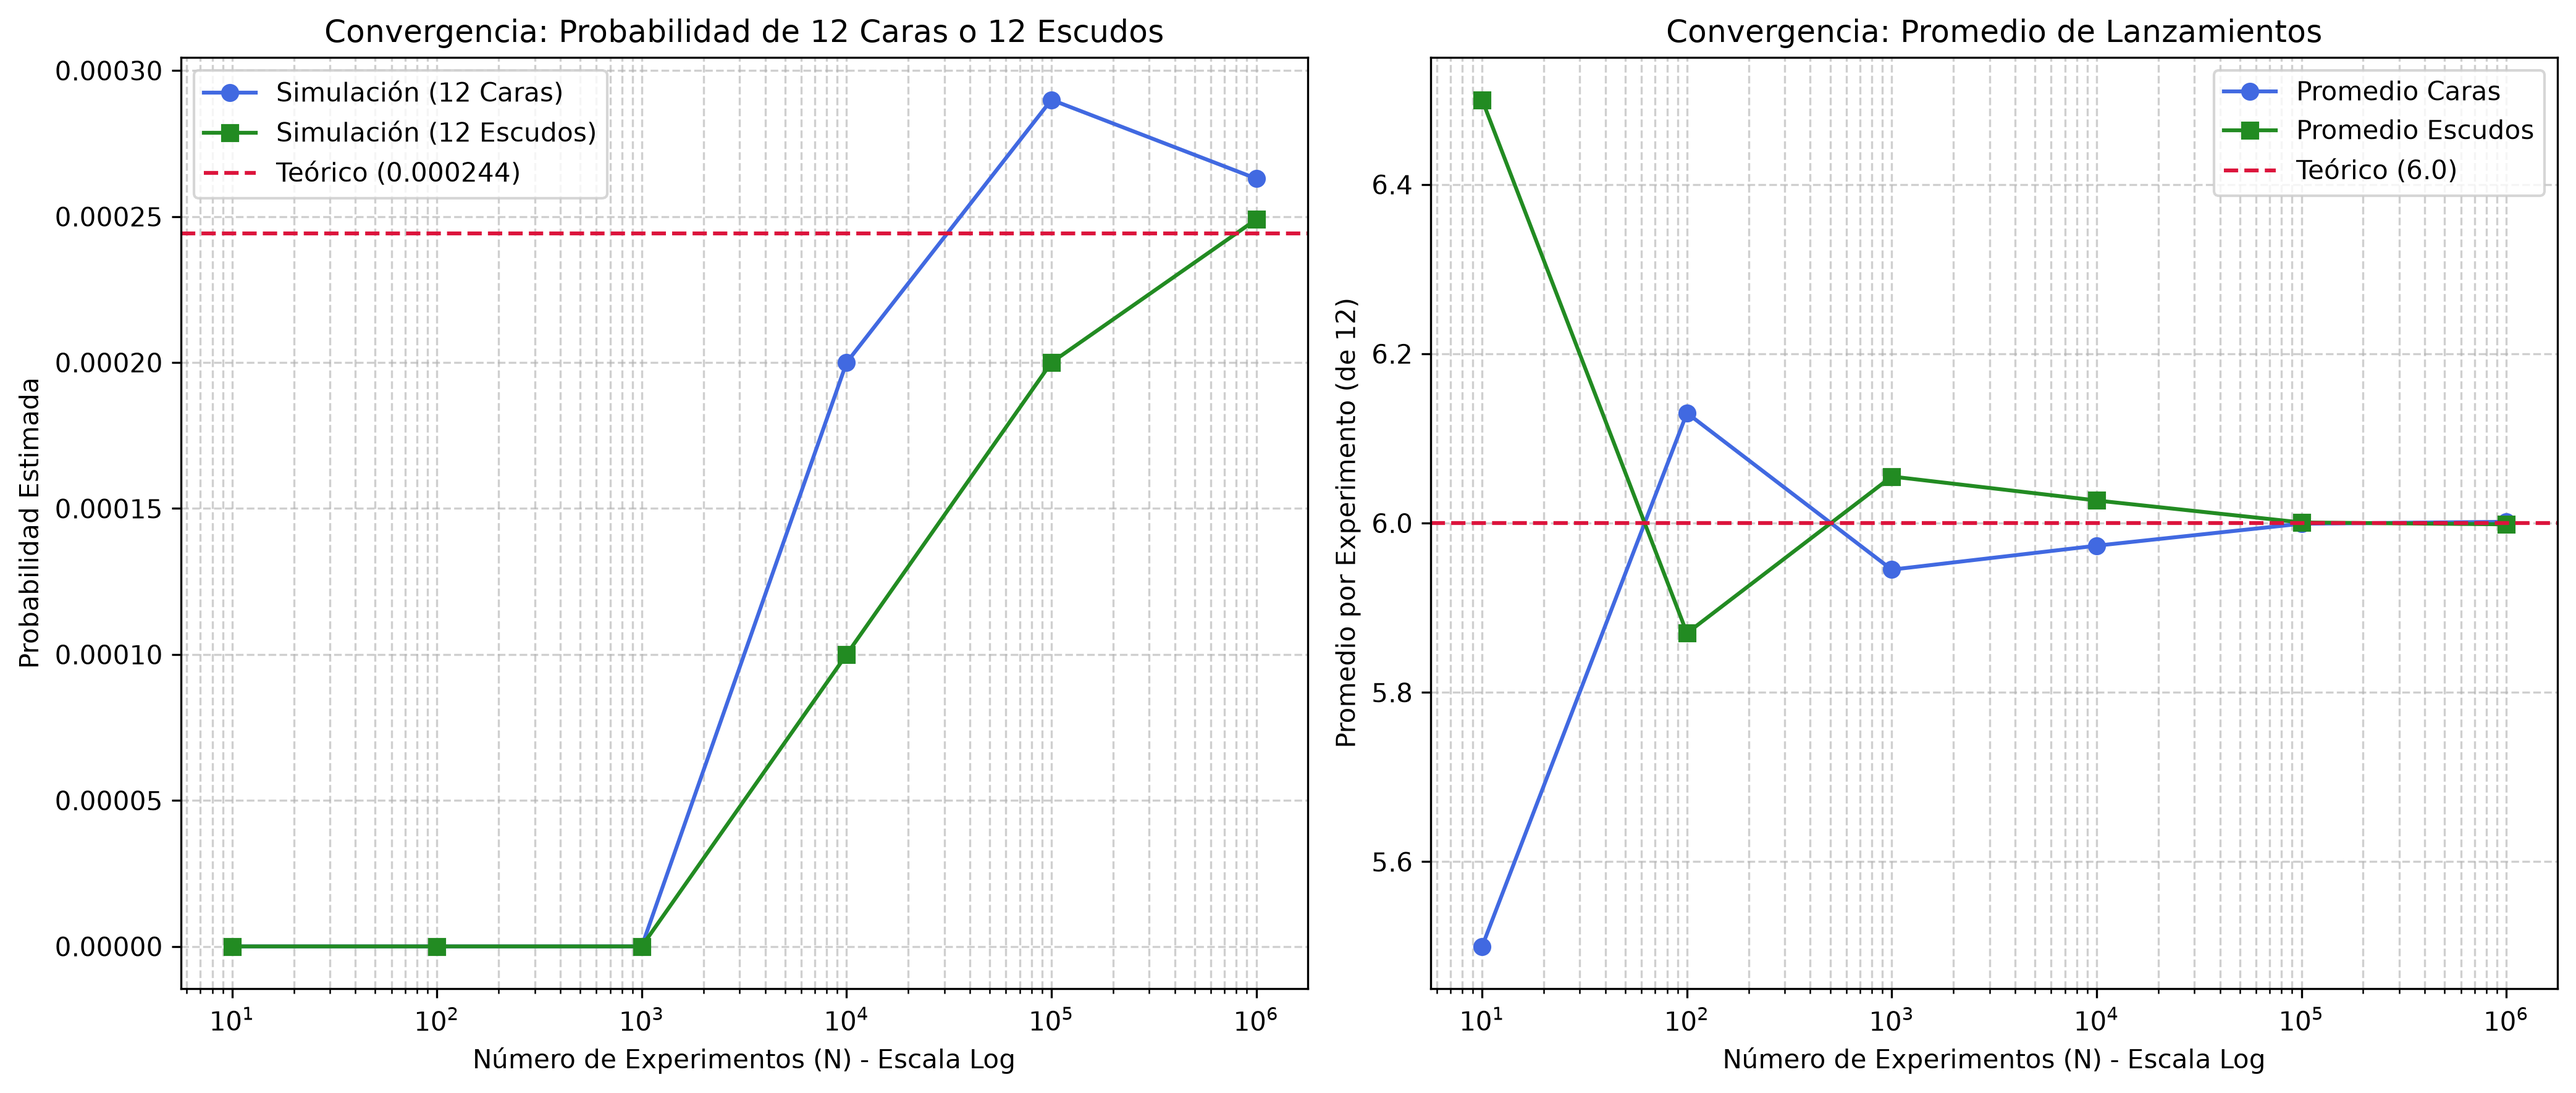
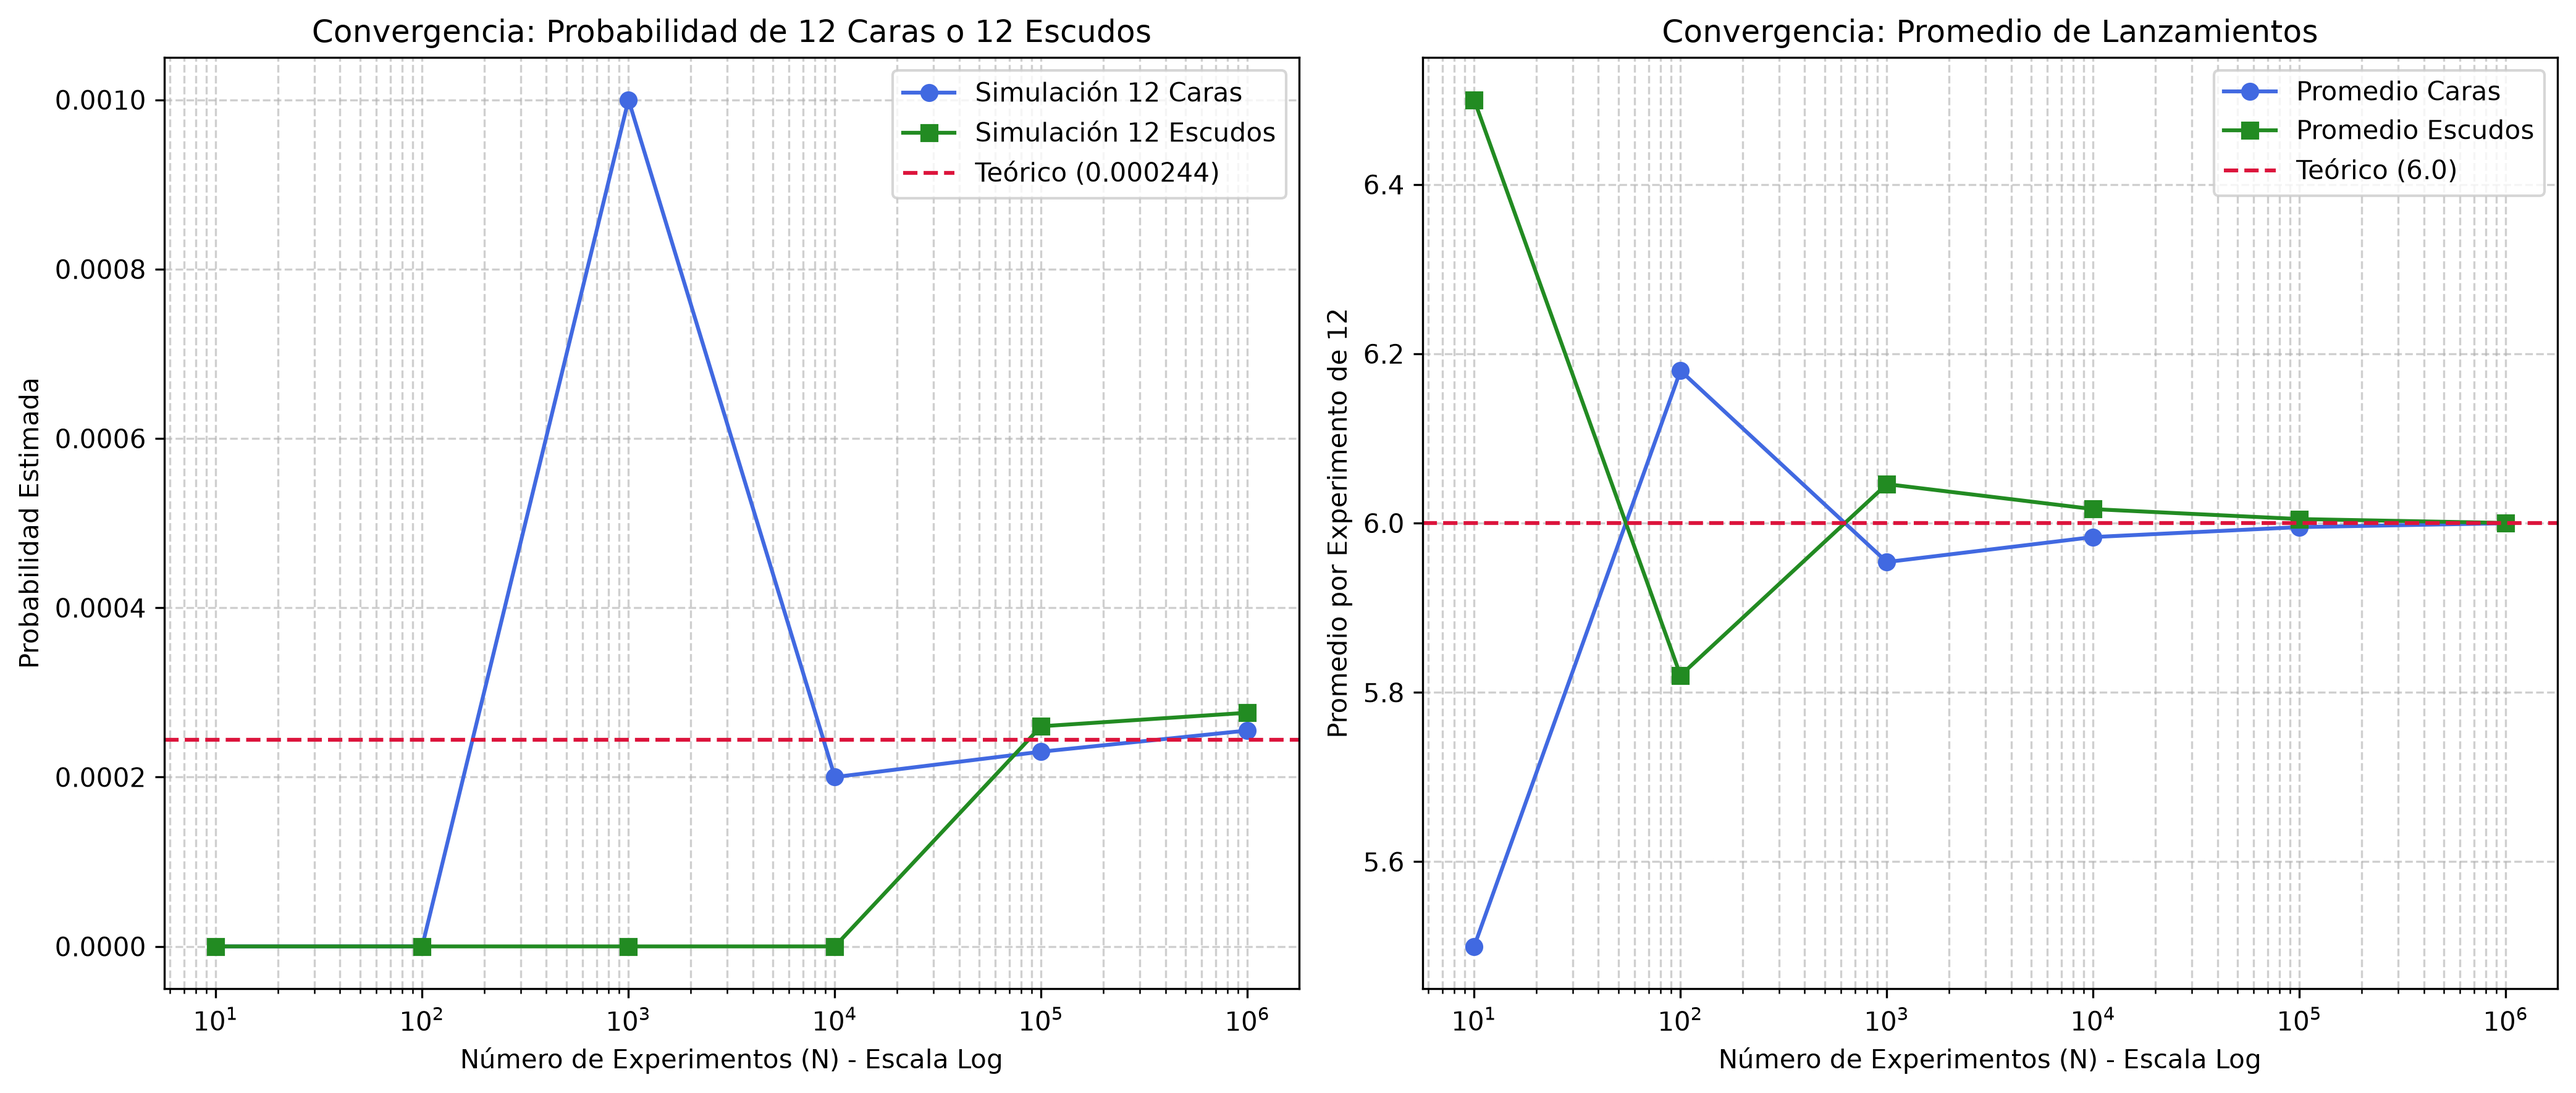
refactor: update text formatting and labels in simulation outputs and plots

Changed region(s): [[0.0312, 0.0, 0.9976, 0.9944], [0.8106, 0.9011, 0.8417, 0.9322]]

diff --git a/moneda_probab/simulacion_moneda.py b/moneda_probab/simulacion_moneda.py
@@ -13,7 +13,7 @@ def run_simulation(max_N=1_000_000, num_tosses=12):
     if max_N not in N_values:
         N_values.append(max_N)
         
-    print(f"Iniciando simulación de Monte Carlo (hasta N={max_N:,})...\n")
+    print(f"Iniciando simulación de Monte Carlo hasta N={max_N:,})...\n")
     
     # Probabilidad teórica de obtener 12 caras o 12 escudos
     p_12_same = (0.5)**num_tosses
@@ -35,7 +35,7 @@ def run_simulation(max_N=1_000_000, num_tosses=12):
     caras_counts = np.sum(tosses, axis=1)
     escudos_counts = num_tosses - caras_counts
     
-    print("\n| N          | P(12 Caras) | Error Abs  | P(12 Escud) | Error Abs  | Prom Caras | Prom Escud |")
+    print("\n| N          | P-12 Caras | Error Abs  | P-12 Escudos | Error Abs  | Prom Caras | Prom Escudos |")
     print("-" * 97)
     
     for n in N_values:
@@ -66,7 +66,7 @@ def run_simulation(max_N=1_000_000, num_tosses=12):
         print(f"| {n:<10,} | {prob_12_caras:.6f}    | {err_c:.6f}   | {prob_12_escudos:.6f}    | {err_e:.6f}   | {avg_caras_val:.4f}     | {avg_escudos_val:.4f}     |")
 
     print("-" * 97)
-    print(f"Valor Teórico (12 Iguales) = {p_12_same:.6f}")
+    print(f"Valor Teórico para 12 intentos seguidos iguales = {p_12_same:.6f}")
     print(f"Valor Teórico Promedio     = {avg_expected:.4f}")
     
     plot_results(results, p_12_same, avg_expected)
@@ -77,8 +77,8 @@ def plot_results(results, p_12_same, avg_expected):
     fig, (ax1, ax2) = plt.subplots(1, 2, figsize=(14, 6))
     
     # Subplot 1: Probabilidad de 12 seguidos
-    ax1.plot(N_vals, results['p_12_caras'], marker='o', label='Simulación (12 Caras)', color='royalblue')
-    ax1.plot(N_vals, results['p_12_escudos'], marker='s', label='Simulación (12 Escudos)', color='forestgreen')
+    ax1.plot(N_vals, results['p_12_caras'], marker='o', label='Simulación 12 Caras', color='royalblue')
+    ax1.plot(N_vals, results['p_12_escudos'], marker='s', label='Simulación 12 Escudos', color='forestgreen')
     ax1.axhline(y=p_12_same, color='crimson', linestyle='--', label=f'Teórico ({p_12_same:.6f})')
     ax1.set_xscale('log')
     ax1.set_xlabel('Número de Experimentos (N) - Escala Log')
@@ -93,7 +93,7 @@ def plot_results(results, p_12_same, avg_expected):
     ax2.axhline(y=avg_expected, color='crimson', linestyle='--', label=f'Teórico ({avg_expected:.1f})')
     ax2.set_xscale('log')
     ax2.set_xlabel('Número de Experimentos (N) - Escala Log')
-    ax2.set_ylabel('Promedio por Experimento (de 12)')
+    ax2.set_ylabel('Promedio por Experimento de 12')
     ax2.set_title('Convergencia: Promedio de Lanzamientos')
     ax2.legend()
     ax2.grid(True, which="both", ls="--", alpha=0.6)
